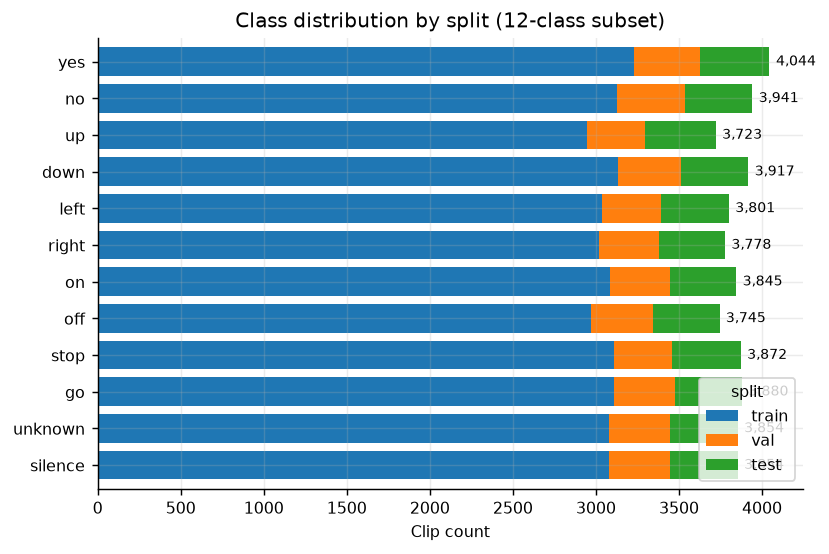
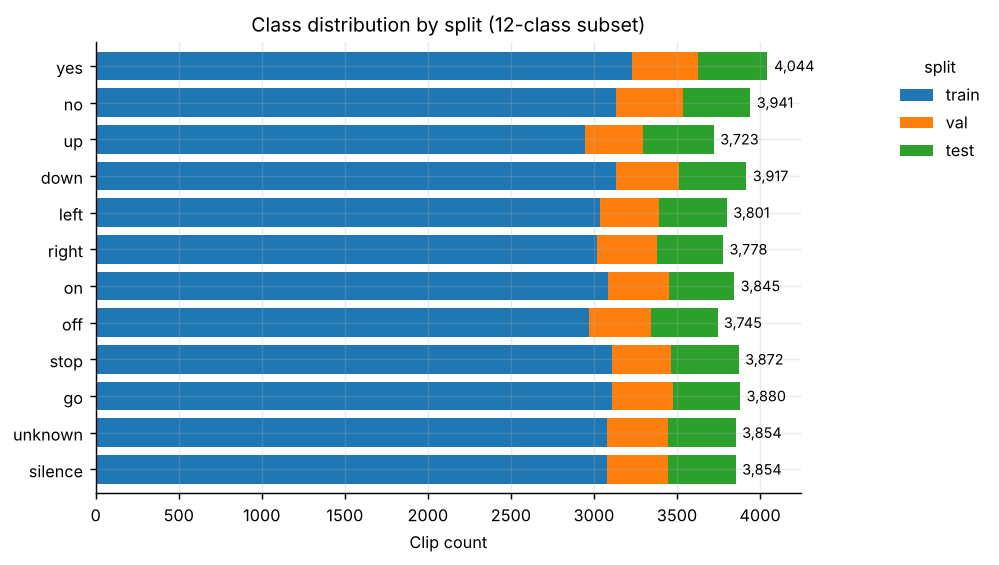
fix(phase1): correct energy and speaker-distribution claims against the figures
The report claimed silence sits clearly below the keyword classes in
energy; the actual data shows 41.4% of silence clips are louder than
the median keyword clip. Traced the cause to a 150x level gap between
the six source noise files, with the loudest one assigned entirely to
test -- added as section 6.1, a real generalization risk for phase 3.

Also corrected the samples-per-speaker description from a skewed tail
to its actual bimodal shape (a 10-15 clip mode plus a separate 40-55
clip population), noted that fig09's PCA uses the 250 most prolific
speakers rather than a random sample, and fixed fig05's title and
fig01's legend placement to match.

diff --git a/src/eda/run_eda.py b/src/eda/run_eda.py
@@ -135,7 +135,10 @@ def fig_class_distribution(man, order, out):
     ax.set_ylabel("")
     ax.set_title("Class distribution by split (12-class subset)")
     ax.invert_yaxis()
-    ax.legend(title="split", loc="lower right")
+    # Anchored outside the axes: inside, it covered the total labels on the
+    # last few bars.
+    ax.legend(title="split", loc="upper left", bbox_to_anchor=(1.12, 1.0),
+              frameon=False)
     for i, total in enumerate(piv.sum(axis=1)):
         ax.text(total * 1.01, i, f"{int(total):,}", va="center", fontsize=8)
     plt.savefig(out / "fig01_class_distribution.png")
@@ -241,7 +244,7 @@ def fig_rms_by_class(audit, order, out):
         patch.set_alpha(0.75)
     ax.set_ylabel("log₁₀(RMS)")
     ax.set_xlabel("Class")
-    ax.set_title("Signal energy distribution by class — silence should be clearly lower")
+    ax.set_title("Signal energy distribution by class (log scale)")
     plt.setp(ax.get_xticklabels(), rotation=45, ha="right")
     plt.savefig(out / "fig05_rms_by_class.png")
     plt.close()

diff --git a/reports/phase1/phase1_report.md b/reports/phase1/phase1_report.md
@@ -1,10 +1,11 @@
 # Phase 1 Report — Problem Understanding, Data Understanding, Quality and Exploratory Analysis
 
-**Project:** Data Economics of Keyword Spotting — Smarter Speaker Selection vs. Random Sampling
-**Route:** D — Google Speech Commands, audio analysis and KWS
-**Student:** _____________  **Student ID:** _____________
-**Repository:** https://github.com/<username>/kws-speaker-economics — tag `phase-1`
-**Date:** ____________
+**Project:** Data Economics of Keyword Spotting — Smarter Speaker Selection vs. Random Sampling <br>
+**Route:** D — Google Speech Commands, audio analysis and KWS <br>
+**Student:** SeyedHossein AhmadiMousavi <br>
+**Student ID:** 402100334 <br> 
+**Repository:** https://github.com/sham0501/kws-speaker-economics — tag `phase-1` <br>
+**Date:** 2026/11/05 <br>
 
 ---
 
@@ -241,12 +242,35 @@ val  : running_tap.wav
 test : white_noise.wav
 ```
 
-One consequence worth stating now: the test `silence` class is built entirely from
-`white_noise.wav`, which is spectrally flat and unlike the train noise sources. Test
-performance on `silence` is therefore a measure of generalization to an unfamiliar noise
-type, not of recognizing the same noise seen in training. That is the harder and more
-realistic reading, but it has to be remembered when the phase-3 confusion matrix is
-interpreted.
+### 6.1 The noise files are not interchangeable — and the split makes that matter
+
+Splitting noise at the file level removes leakage, but it has a second consequence that
+only shows up once the clips are measured. The six noise files differ enormously in
+level, and the split distributes them unevenly:
+
+| Source file | Split | Clips | Median RMS |
+|---|---|---|---|
+| `dude_miaowing.wav` | train | 769 | 0.0021 |
+| `exercise_bike.wav` | train | 769 | 0.0218 |
+| `doing_the_dishes.wav` | train | 769 | 0.0331 |
+| `running_tap.wav` | val | 370 | 0.0685 |
+| `pink_noise.wav` | train | 770 | 0.3150 |
+| `white_noise.wav` | **test** | 407 | 0.3329 |
+
+The entire test `silence` class comes from `white_noise.wav` at a median RMS of 0.333.
+Of the four train noise sources, only `pink_noise.wav` is comparable; the other three are
+**10× to 150× quieter**. So roughly three quarters of the training `silence` examples are
+quiet, while 100% of the test `silence` examples are loud broadband noise.
+
+This is the single biggest generalization risk identified in phase 1, and it is a
+property of the split design rather than a data defect. Two things follow for phase 3.
+First, test `silence` performance measures generalization to an unseen *and much louder*
+noise type, so a weak `silence` score should not be read as the model failing at the
+reject task in general. Second, it is now clear why the per-clip energy normalization in
+phase 2 matters: without it, the model could separate train `silence` from speech on
+loudness alone and then collapse at test time, where that shortcut inverts. The phase-3
+confusion matrix should be read with a per-noise-source breakdown rather than a single
+`silence` row.
 
 **Low-energy clips in word classes.** Only **3** files among the 10 keyword classes
 fall below the RMS threshold (`off`: 1, `yes`: 2); the remaining 702 of the 705
@@ -301,21 +325,43 @@ batching needed anywhere in the pipeline.
 
 **Figure:** `figures/phase1/fig05_rms_by_class.png`
 
-Energy is reported on a log₁₀RMS axis, where the keyword classes sit in a broad
-single-peaked band and `silence` sits clearly below them. The spread within the keyword
-classes is wide — it is driven by microphone and speaking-volume variation rather than
-by which word was said — which is why a per-clip energy normalization is applied before
-features in phase 2, with the normalization statistics computed on train only.
+Energy is reported on a log₁₀RMS axis. The ten keyword classes are almost
+indistinguishable from each other: all ten medians fall between 0.055 and 0.065 RMS and
+their boxes overlap nearly completely, so loudness carries essentially no information
+about which word was said. The spread within each keyword class is wide (IQR roughly
+0.034–0.092) and is driven by microphone and speaking-volume variation, which is why a
+per-clip energy normalization is applied before features in phase 2, with the
+normalization statistics computed on train only.
+
+The result that matters here is the one that contradicts the obvious expectation.
+`silence` does **not** sit cleanly below the keywords. Its distribution is far wider than
+any keyword class (IQR 0.020–0.293 against 0.034–0.092) and it overlaps the keywords
+heavily in both directions: **41.4% of `silence` clips are louder than the median keyword
+clip**, and 24.6% of keyword clips are quieter than the median `silence` clip. Energy
+alone therefore cannot separate speech from non-speech in this subset, and the `silence`
+class cannot be treated as "the quiet class." Section 6.1 explains where that width comes
+from.
 
 ### 7.4 Samples-per-speaker distribution
 
 **Figure:** `figures/phase1/fig02_samples_per_speaker.png`
 
-Right-skewed: a dense mass between 8 and 15 samples (p25 = 8, median = 11, p75 = 14 in
-train) and a long thin tail reaching 129. Combined with the Gini of 0.461, the practical
-reading is that the pool offers many speakers with a handful of clips each and very few
-speakers with enough clips to serve a high-k condition — which is exactly the asymmetry
-the phase-3 experiment has to be designed around.
+The distribution is **bimodal**, not a simple right-skewed tail. The main mode sits at
+10–15 clips (757 of 2,031 train speaker ids) with a lower shoulder at 5–10 (530) and
+under 5 (254). A second, clearly separated population sits at 40–55 clips (311 speakers),
+with a thin tail beyond that to a maximum of 129. In total **17.4% of speakers have 40 or
+more clips while 12.5% have fewer than 5** — the pool is effectively two groups of
+contributors, occasional and prolific, rather than one continuous distribution.
+
+Concentration follows from that shape: the top 10% of speakers hold 37.5% of the train
+clips and the top 20% hold 59.9%, which is what the Gini of 0.461 summarizes.
+
+This directly constrains the phase-3 design. A high-k condition (k = 40 or above) can
+only be served by that second population, so it would compare "many speakers" against
+"few speakers *of a specific, unrepresentative kind*" rather than against a clean
+samples-per-speaker contrast. Any k above roughly 15 silently changes which speakers are
+eligible, and the experiment has to either stay below that point or report the
+composition shift explicitly.
 
 ---
 
@@ -325,26 +371,46 @@ the phase-3 experiment has to be designed around.
 
 **Figure:** `fig05_rms_by_class.png`
 
-The separation of interest is `silence` against everything else, and it is clean —
-which is expected, since `silence` is cut from background noise rather than spoken.
-Among the 10 keywords there is no useful energy separation at all; the boxes overlap
-almost completely. Energy alone therefore carries essentially no word information, and
-any classifier that works will be working from spectral structure, not loudness.
+Two readings, and the second is the useful one. Among the 10 keywords there is no energy
+separation at all — the boxes overlap almost completely — so energy carries no word
+information and any classifier that works will be working from spectral structure, not
+loudness. And `silence`, which should have been the one class energy *could* separate,
+is the class energy separates worst: it spans a range wider than all ten keywords
+combined (section 7.3). The practical consequence is that the `silence` class has to be
+learned from spectral shape like every other class; a loudness threshold would both miss
+loud noise and reject quiet speech.
 
 ### 8.2 Spectral content × class
 
-**Figure:** `fig08_mean_logmel_per_class.png`
+**Figure:** `fig08_mean_logmel_per_class.png` (all twelve panels share one color scale,
+so brightness is comparable across classes)
 
-Averaged over all clips of a class, the log-mel patterns do differ visibly between
-words with different vowel and stop structure, but several pairs look close — the
-plosive-initial short words and the words sharing a dominant vowel are the ones to
-watch. This is a testable prediction rather than a conclusion: the pairs that look most
-similar here should be the pairs with the highest off-diagonal mass in the phase-3
-confusion matrix, and the final report can state whether the prediction held.
+`silence` is immediately distinct: flat and bright across every mel band with no
+time structure, which is what a stationary broadband noise source looks like after
+averaging. Part of that brightness is an artifact of averaging rather than a pure class
+property — keyword clips place the word at different offsets, so averaging over a class
+smears the word energy out, while stationary noise averages to itself. The shape
+difference (flat and time-invariant vs. a concentrated time-localized blob) is the real
+signal here, not the absolute brightness.
+
+Among the keywords, the pairs whose averaged patterns look closest are **go / no /
+down** (all three dominated by a low-band blob in the middle third of the clip) and
+**on / off / up** (compact mid-band energy with a shorter duration). This is a testable
+prediction rather than a conclusion: these pairs should carry the highest off-diagonal
+mass in the phase-3 confusion matrix, and the final report can state whether the
+prediction held.
 
 ### 8.3 Audio profile × speaker (groundwork for phase-2 clustering)
 
 **Figure:** `fig09_speaker_mfcc_pca.png`
+
+**How the figure is built, and its one bias.** Each point is one speaker, profiled as the
+mean and standard deviation of 13 MFCC coefficients over 8 of that speaker's clips. The
+figure shows **250 speakers, selected as the 250 with the most clips**, not a random
+sample of the 2,027. That keeps the profiles comparable (every profile is built from the
+same number of clips) but it means the figure describes the prolific second population
+identified in section 7.4, not the pool as a whole. Phase 2 repeats this on a random
+sample before drawing any conclusion about the shape of speaker space.
 
 **Explained variance:** PC1 = 16.7%, PC2 = 11.2% (combined ≈ 27.9%). This is low for a
 2D projection, and it is the most important caveat in this section: roughly 72% of the
@@ -419,19 +485,35 @@ because it needs many small runs rather than one heavy training job.
 
 ## 12. Summary and phase-2 next steps
 
-Phase 1 changed the phase-3 design in two concrete ways. First, the speaker audit showed
-that samples per speaker are capped much lower than assumed: median 11, p75 14, and a
-minimum of 1. The "many samples per speaker" arm of the budget experiment therefore
-cannot be pushed to k = 25 without drawing from a tiny, unrepresentative slice of the
-pool, so the k axis is constrained to the range the data can actually supply and Figure 3
-is what fixes that range. Second, the per-speaker MFCC profile space showed no dominant
-low-dimensional structure (PC1 + PC2 ≈ 27.9%), which weakens the original assumption that
-speakers fall into clean clusters. Phase 2 therefore tests that assumption with silhouette
-score before relying on k-means, and keeps a coverage-based selection strategy as the
-alternative. On the data-quality side the outcome was the opposite of a problem: no
-corrupt files, no missing values, no duplicates, uniform 16 kHz, and all 2,367 flagged
-files resolved as natural recording variation, so no rows were dropped and no quality
-decision needs defending beyond the thresholds themselves.
+Phase 1 changed the design of the later phases in three concrete ways, and each came from
+a measurement that contradicted an assumption rather than confirming one.
+
+First, samples per speaker are **bimodal**, not merely skewed: a main mode at 10–15 clips
+and a separate population at 40–55, with 12.5% of speakers under 5 clips and 17.4% at 40
+or more. The budget experiment cannot push k past roughly 15 without silently switching
+which speakers are eligible, so a high-k arm would no longer be a clean
+samples-per-speaker contrast. The k axis is constrained accordingly, and Figure 3 fixes
+the range.
+
+Second, the `silence` class is not the quiet class. Its energy spread is wider than all
+ten keywords combined, 41.4% of its clips are louder than the median keyword, and the
+cause is structural: the source noise files differ by up to 150× in level, and the split
+puts the loudest one (`white_noise.wav`, median RMS 0.333) alone in test while three of
+the four train sources are far quieter. This is the largest generalization risk found in
+phase 1, it is a consequence of the split design rather than a data defect, and it makes
+the phase-2 per-clip energy normalization load-bearing rather than routine.
+
+Third, the per-speaker MFCC profile space showed no dominant low-dimensional structure
+(PC1 + PC2 ≈ 27.9%), which weakens the original assumption that speakers fall into clean
+clusters — and the figure that showed it was itself built from the 250 most prolific
+speakers, so it does not yet describe the pool. Phase 2 therefore re-runs the projection
+on a random sample and tests cluster structure with silhouette score before relying on
+k-means, keeping a coverage-based selection strategy as the alternative.
+
+On the data-quality side the outcome was the opposite of a problem: no corrupt files, no
+missing values, no duplicates, uniform 16 kHz, and all 2,367 flagged files resolved as
+natural recording variation, so no rows were dropped and no quality decision needs
+defending beyond the thresholds themselves.
 
 **Phase-2 next steps:** a reproducible preprocessing pipeline; log-mel/MFCC feature
 construction with recorded parameters; dimensionality reduction and clustering of

diff --git a/PROJECT_CARD.md b/PROJECT_CARD.md
@@ -1,7 +1,7 @@
 # PROJECT_CARD.md
 
 **Course:** Data Analytics — Fall 2026
-**Student:** _____________
+**Student:** SeyedHossein AhmadiMousavi — 402100334
 **Route:** D — Google Speech Commands; audio analysis and keyword spotting (KWS)
 **Logged:** 1405/08/13 (phase 1)
 
